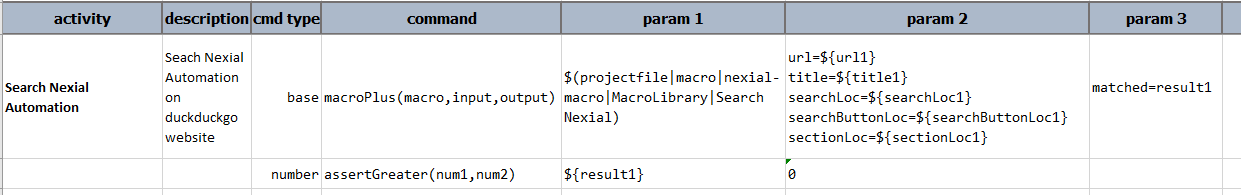
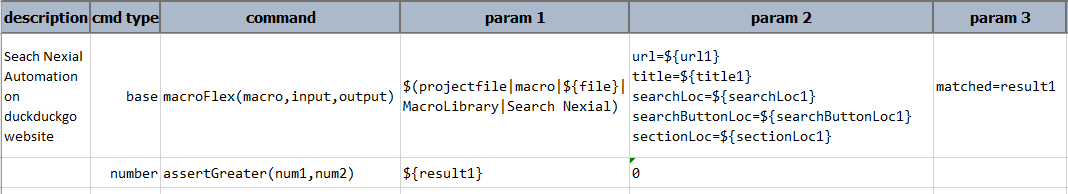
- Added docs for `screenshotInFull(file,timeout)` command.

diff --git a/systemvars/content.html b/systemvars/content.html
@@ -697,6 +697,39 @@
   </tr>
   <tr>
     <td nowrap="nowrap" class="varname">
+      <a id="nexial.screenshotInFull"><code>nexial.screenshotInFull</code></a>
+    </td>
+    <td>boolean</td>
+    <td>false</td>
+    <td class="read-write">read/write</td>
+    <td>
+      When running <a href="../commands/web"><code>web</code> commands</a>, the norm has been using the underlying
+      WebDriver's screen capturing capability. However in some situation, it might be beneficial or perhaps
+      necessary to screen capture the entire web page instead. <br/>
+
+      By setting this System variable as <code>true</code> (default is <code>false</code>), Nexial will capture
+      the entire web page instead of what the browser renders.
+    </td>
+  </tr>
+  <tr>
+    <td nowrap="nowrap" class="varname">
+      <a id="nexial.screenshotInFullTimeout"><code>nexial.screenshotInFullTimeout</code></a>
+    </td>
+    <td>integer</td>
+    <td>5000</td>
+    <td class="read-write">read/write</td>
+    <td>
+      When running <a href="../commands/web"><code>web</code> commands</a>, the norm has been using the underlying
+      WebDriver's screen capturing capability. However in some situation, it might be beneficial or perhaps
+      necessary to screen capture the entire web page instead. So, while capturing full screenshot, the timeout needed to
+      load image before scrolling to next screen is specified via this variable. Default value is <code>5000</code>
+      (in milliseconds). This system variable only comes in effect if
+      <a href="index#nexial.screenshotInFull">base &raquo; <code>index#nexial.screenshotInFull</code></a> is set to <code>true</code>
+
+    </td>
+  </tr>
+  <tr>
+    <td nowrap="nowrap" class="varname">
       <a id="nexial.screenshot.caption"><code>nexial.screenshot.caption</code></a>
     </td>
     <td>text</td>

diff --git a/commands/base/macroFlex(macro,input,output).md b/commands/base/macroFlex(macro,input,output).md
@@ -23,6 +23,7 @@ maintainability:
 1. The data variables used by a macro must be correctly defined prior to invocation.
 2. The data variables created or modified by a macro could possibly conflict (and override) with its calling script.
 3. A macro might modify one or more System variables, which could adversely impact the rest of the execution.
+4. So, the data variables created or modified by a macro will not be accessible after completion of macro.
 
 Such are the initial impetus to creating `macroFlex`. The main idea is to isolate a set of data variables, assigned as 
 "inputs", to a macro and to extract a set of "outputs" produced by the same macro into data variables -- with minimum
@@ -32,18 +33,18 @@ disruption to the calling script and other test artifacts during execution. Cons
 
 |cmd type|command                |param 1             |param 2  |param 3|
 |--------|-----------------------|--------------------|---------|-------|
-|`number`|`increment(var,amount)`|`${num1}`           |`${num2}`|       |
+|`number`|`increment(var,amount)`|`num1`              |`${num2}`|       |
 |`base`  |`verbose(text)`        |`The sum is ${num1}`|         |       |
 
 <br/>
 
 ##### Script
 
-|cmd type|command                            |param 1             |param 2  |param 3|
-|--------|-----------------------------------|--------------------|---------|-------|
-|`base`  |`save(var,value)`                  |`${num1}`           |`37`     |       |
-|`base`  |`save(var,value)`                  |`${num2}`           |`5`      |       |
-|`base`  |**`macroFlex(macro,input,output)`**|**`num1=${num1}`<br/>`num2=${num2}`**|**`num1=total`**|       |
+|cmd type|command                            |param 1          |param 2  |param 3|
+|--------|-----------------------------------|-----------------|---------|-------|
+|`base`  |`save(var,value)`                  |`num1`           |`37`     |       |
+|`base`  |`save(var,value)`                  |`num2`           |`5`      |       |
+|`base`  |**`macroFlex(macro,input,output)`**|${macro}         |**`num1=${num1}`<br/>`num2=${num2}`**|**`num1=total`**|
 |`base`  |`verbose(text)`                    |`${num1} + ${num2} = ${total}`       |                |       |
 
 <br/>
@@ -92,8 +93,9 @@ information about this, visit the [`$(profile|macro)`](../../functions/$(project
 
 ### Example
 In below example, this macro accepts values for `url`, `title`, `searchButtonLoc` and `sectionLoc`. Also, it passes 
-result data values back to script like `matched` to `result1` in this example. So `matched` will be variable which 
-will be accessible within this macro only. User can assign multiply values in separate lines.
+result data values back to script like `matched` to `result1` in this example. In this case, if user have variable 
+`matched` outside this macro (probably in script or data), it will not be overridden. So, `matched` variable
+will be accessible within this macro only. User can specify multiple output params in separate lines.
 
 **Script**<br/>
 ![script](image/macroPlus_01.png)<br/>

diff --git a/release/nexial-core-v3.2.changelog.md b/release/nexial-core-v3.2.changelog.md
@@ -13,7 +13,7 @@ comments: true
 ### General
 #### Fixes
 - Fix issue with Excel parsing where `_x[NUMBER]_` is treated as UTF decoding and thus translated into UTF character.
-  Code fix circumvented the UTF translation.  
+  Code fix circumvented the UTF translation.
 #### Improvements
 - [ErrorTracker](../userguide/ExecutionLogs#errortracker-error-only-log-file): new feature to trap all step-wise errors
   into a separate log file so that we can streamline root cause analysis.
@@ -23,7 +23,10 @@ comments: true
 
 
 ### [System Variable](../systemvars)
-
+- [`nexial.screenshotInFull`](../systemvars/index#nexial.screenshotInFull): **New** system variable to capture 
+entire web page screen. Default value for this variable is `false`.
+- [`nexial.screenshotInFullTimeout`](../systemvars/index#nexial.screenshotInFullTimeout): **New** system variable 
+to provide time before scrolling down while capturing entire web page. Default value of this variable is `5000` milliseconds.
 
 ### [Nexial Interactive](../interactive)
 - minor improvement on console output
@@ -74,6 +77,8 @@ comments: true
 - [`nexial.web.unfocusAfterType`](../systemvars/index.html#nexial.web.unfocusAfterType): added slight wait between 
   typing and "tabbing" out of current web element.
 - added error handling when Nexial timed out during the execution of a `wait...` command.
+- [`screenshotInFull(file,timeout)`](../commands/web/screenshotInFull(file,timeout)): **NEW** command to capture entire 
+web page screenshot with scrolling timeout.
 
 
 ### [webalert](../commands/webalert)

diff --git a/commands/web/screenshotInFull(file,timeout).md b/commands/web/screenshotInFull(file,timeout).md
@@ -1,0 +1,34 @@
+---
+layout: default
+title: screenshotInFull(file,timeout)
+parent: web
+tags: command web locator values
+comments: true
+---
+
+### Description
+This command automates the screen capture (to `file`) of a entire web page with timeout between scroll specified by 
+`timeout`. The `timeout` is time needed for loading images of web page before scrolling.
+If [`nexial.outputToCloud`](../../systemvars/index.md#nexial.outputToCloud) System variable is set to `true`, then the 
+captured image will be uploaded to the cloud as well.
+
+
+### Parameters
+- **file** -This parameter is the file path to save entire web page screen capture.
+- **timeout** - This parameter is the time (in milliseconds) before scrolling.
+
+
+### Example
+Suppose we want to capture full web page image from news.google.com:<br/>
+![](image/screenshotInFull_03.png)
+
+**Script**:<br/>
+![](image/screenshotInFull_01.png)
+
+**Output**:<br/>
+![](image/screenshotInFull_02.png)
+
+
+
+### See Also
+- [screenshot(file,locator)](screenshot(file,locator))

diff --git a/functions/$(projectfile).md b/functions/$(projectfile).md
@@ -44,6 +44,16 @@ only the HTML table. See [ErrorTracker](../userguide/ExecutionLogs#errortracker-
 
 -----
 
+#### `$(projectfile|macro|file|sheet|name)`
+This specialized built-in function provides macro details such as macro file, sheet and macro name. These details mainly
+needed to be referred to invocation of macro from **[base &raquo; `macroFlex(macro,input,output)`](../commands/base/macroFlex(macro,input,output)))**.
+In this case, `file` can be relative path or absolute path of macro excel. For more details about parameters, go through
+**[base &raquo; `macro(file,sheet,name)`](../commands/base/macro(file,sheet,name)))**.<br/>
+In following example, first parameter of **[base &raquo; `macroFlex(macro,input,output)`](../commands/base/macroFlex(macro,input,output)))**
+command is the `$(projectfile)` built-in function which is used to invoke macro.<br/>
+![script](image/$(projectfile)_03.png)
+
+-----
 ### See Also
 - [`$(syspath)`]($(syspath))
 

diff --git a/commands/web/index.md b/commands/web/index.md
@@ -177,6 +177,7 @@ available commands.
 - [`saveValue(var,locator)`](saveValue(var,locator))
 - [`saveValues(var,locator)`](saveValues(var,locator))
 - [`screenshot(file,locator)`](screenshot(file,locator))
+- [`screenshotInFull(file,timeout)`](screenshotInFull(file,timeout))
 - [`scrollElement(locator,xOffset,yOffset)`](scrollElement(locator,xOffset,yOffset))
 - [`scrollLeft(locator,pixel)`](scrollLeft(locator,pixel))
 - [`scrollPage(xOffset,yOffset)`](scrollPage(xOffset,yOffset))

diff --git a/commands/web/screenshot(file,locator).md b/commands/web/screenshot(file,locator).md
@@ -29,5 +29,5 @@ Suppose we want to capture element image from news.google.com:<br/>
 ![](image/screenshot_02.png)
 
 
-
 ### See Also
+- [`screenshot(file,locator)`](screenshot(file,locator))
